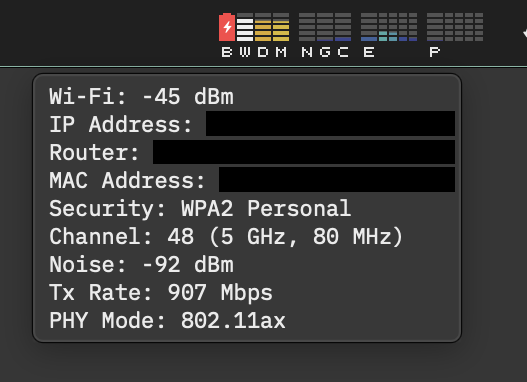
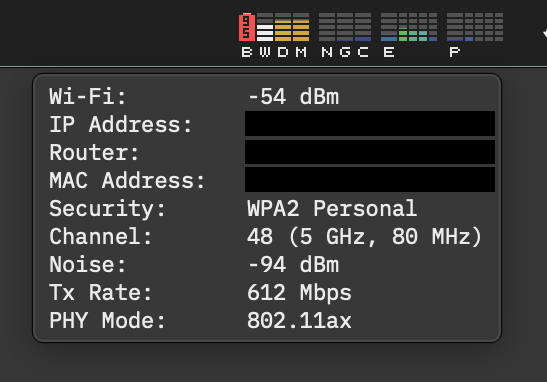
Line up the Wi-Fi label's values in one column, and retake its README picture

Changed region(s): [[0.0911, 0.2304, 0.8805, 0.8639], [0.3947, 0.0288, 0.9108, 0.1728], [0.8501, 0.288, 0.9108, 0.5183]]

diff --git a/cpuTopBars/AppDelegate.mm b/cpuTopBars/AppDelegate.mm
@@ -3527,11 +3527,13 @@ static NSString* WifiChannelText(const SystemInfoWifi* wifi)
   return @(text);
 }
 
-// Wi-Fi's hover label: connected, "Wi-Fi: -50 dBm" and then a line each for the details the macOS Wi-Fi menu lists with
-// Option held, in its order, but those that need Location Services (the network's name, its BSSID, the country code), the
-// MCS index and NSS, which CoreWLAN does not give, and the RSSI, which is the first line: "IP Address:", "Router:", "MAC
-// Address:", "Security:", "Channel:", "Noise:", "Tx Rate:" and "PHY Mode:"; a detail that was not read (ip, router and mac
-// empty), or that has no name, has no line. Else "Wi-Fi: off" or "Wi-Fi: not connected"
+// Wi-Fi's hover label: connected, "Wi-Fi:" and the signal (-50 dBm), then a line each for the details the macOS Wi-Fi
+// menu lists with Option held, in its order, but those that need Location Services (the network's name, its BSSID, the
+// country code), the MCS index and NSS, which CoreWLAN does not give, and the RSSI, which is the first line: "IP
+// Address:", "Router:", "MAC Address:", "Security:", "Channel:", "Noise:", "Tx Rate:" and "PHY Mode:"; a detail that was
+// not read (ip, router and mac empty), or that has no name, has no line. Each name, "Wi-Fi:" included, is padded with
+// spaces to 15 characters ("MAC Address:", the longest, and three), so the values start in one column in the label's
+// monospace font ("Wi-Fi:         -50 dBm"). Else "Wi-Fi: off" or "Wi-Fi: not connected"
 static NSString* WifiTipText(const SystemInfoWifi* wifi, const char* ip, const char* router, const char* mac)
 {
   if (!wifi->present)
@@ -3546,29 +3548,30 @@ static NSString* WifiTipText(const SystemInfoWifi* wifi, const char* ip, const c
   {
     return @"Wi-Fi: not connected";
   }
-  NSMutableString* text = [NSMutableString stringWithFormat:@"Wi-Fi: %d dBm", wifi->rssi];
+  NSMutableString* text = [NSMutableString stringWithFormat:@"%-15s%d dBm", "Wi-Fi:", wifi->rssi];
   if (ip[0] != 0)
   {
-    [text appendFormat:@"\nIP Address: %s", ip];
+    [text appendFormat:@"\n%-15s%s", "IP Address:", ip];
   }
   if (router[0] != 0)
   {
-    [text appendFormat:@"\nRouter: %s", router];
+    [text appendFormat:@"\n%-15s%s", "Router:", router];
   }
   if (mac[0] != 0)
   {
-    [text appendFormat:@"\nMAC Address: %s", mac];
+    [text appendFormat:@"\n%-15s%s", "MAC Address:", mac];
   }
   const char* security = SystemInfoWifiSecurityName(wifi->security);
   if (security != NULL)
   {
-    [text appendFormat:@"\nSecurity: %s", security];
+    [text appendFormat:@"\n%-15s%s", "Security:", security];
   }
-  [text appendFormat:@"\nChannel: %@\nNoise: %d dBm\nTx Rate: %.0f Mbps", WifiChannelText(wifi), wifi->noise, wifi->txRate];
+  [text appendFormat:@"\n%-15s%@\n%-15s%d dBm\n%-15s%.0f Mbps", "Channel:", WifiChannelText(wifi), "Noise:", wifi->noise,
+                     "Tx Rate:", wifi->txRate];
   const char* phy = SystemInfoWifiPhyName(wifi->phy);
   if (phy != NULL)
   {
-    [text appendFormat:@"\nPHY Mode: %s", phy];
+    [text appendFormat:@"\n%-15s%s", "PHY Mode:", phy];
   }
   return text;
 }

diff --git a/README.md b/README.md
@@ -42,7 +42,7 @@ Rest the pointer on a bar for a second and its reading shows below the menu bar.
 
 * **Wi-Fi:** while connected, the signal, then the IP address, router, MAC address, security, channel, noise, transmit rate and PHY mode; else whether Wi-Fi is off or not connected. In the picture the addresses are blacked out.
 
-<img src="screenshots/hover-wifi.png" width="264" alt="Wi-Fi label, addresses blacked out">
+<img src="screenshots/hover-wifi.png" width="274" alt="Wi-Fi label, addresses blacked out">
 
 * **Disk:** the startup volume's use, with its free and used space.
 
